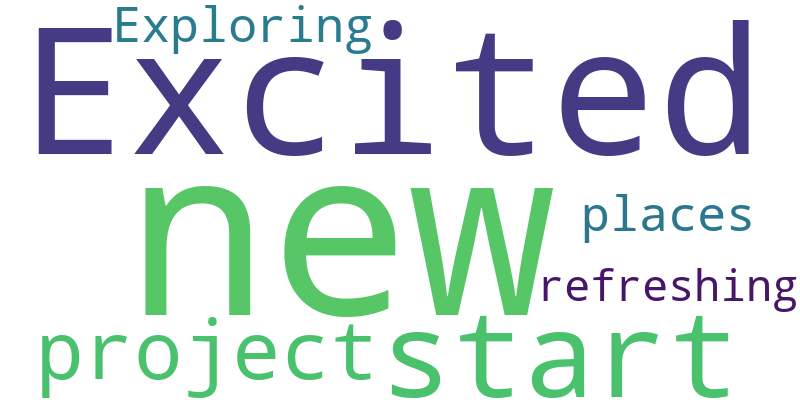
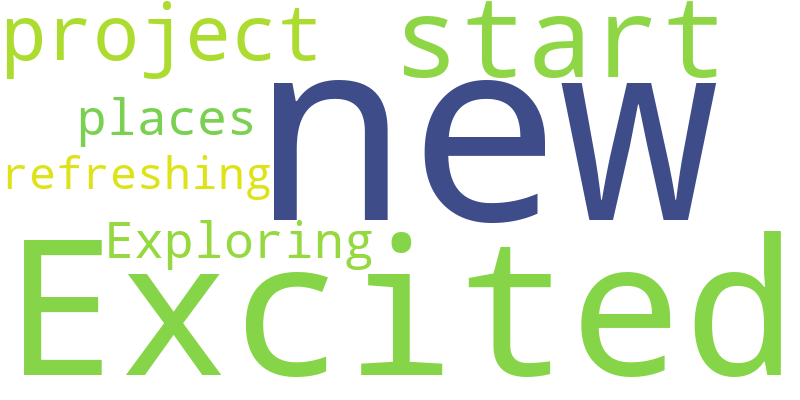
Yes

diff --git a/src/app/page.tsx b/src/app/page.tsx
@@ -1,135 +1,14 @@
-'use client'; // Marks this file as a client-side component
+import WordCloud from '../components/WordCloud';
 
-import { useState, useEffect } from 'react';
-import { prisma } from '../lib/prisma';
-
-export default function HomePage() {
-  // State to manage keywords and user attributes
-  const [includeKeywords, setIncludeKeywords] = useState('');
-  const [excludeKeywords, setExcludeKeywords] = useState('');
-  const [userAttributes, setUserAttributes] = useState({ age: '', gender: '', region: '' });
-  const [posts, setPosts] = useState([]);
-  const [loading, setLoading] = useState(false);
-
-  // Function to fetch posts based on the filters
-  const fetchFilteredPosts = async () => {
-    setLoading(true);
-
-    try {
-      const filteredPosts = await prisma.post.findMany({
-        where: {
-          content: {
-            contains: includeKeywords,
-            not: {
-              contains: excludeKeywords,
-            },
-          },
-          poster: {
-            attributes: {
-              some: {
-                AND: [
-                  userAttributes.age ? { value: userAttributes.age } : {},
-                  userAttributes.gender ? { value: userAttributes.gender } : {},
-                  userAttributes.region ? { value: userAttributes.region } : {},
-                ],
-              },
-            },
-          },
-        },
-        include: {
-          poster: true, // Include the associated user (poster) details
-        },
-      });
-
-      setPosts(filteredPosts);
-    } catch (error) {
-      console.error('Error fetching posts:', error);
-    } finally {
-      setLoading(false);
-    }
-  };
-
-  useEffect(() => {
-    fetchFilteredPosts();
-  }, [includeKeywords, excludeKeywords, userAttributes]); // Refetch when filters change
+const HomePage = () => {
+  const postsContent = "Excited to start my new project! Exploring new places is so refreshing!"; // Example posts content
 
   return (
     <div>
-      <h1>Social Media Posts</h1>
-
-      {/* Input to include keywords */}
-      <div>
-        <label>Include Keywords</label>
-        <input
-          type="text"
-          value={includeKeywords}
-          onChange={(e) => setIncludeKeywords(e.target.value)}
-          placeholder="Enter keywords to include"
-        />
-      </div>
-
-      {/* Input to exclude keywords */}
-      <div>
-        <label>Exclude Keywords</label>
-        <input
-          type="text"
-          value={excludeKeywords}
-          onChange={(e) => setExcludeKeywords(e.target.value)}
-          placeholder="Enter keywords to exclude"
-        />
-      </div>
-
-      {/* Inputs for filtering by user attributes */}
-      <div>
-        <label>Age</label>
-        <input
-          type="text"
-          value={userAttributes.age}
-          onChange={(e) => setUserAttributes({ ...userAttributes, age: e.target.value })}
-          placeholder="Enter age"
-        />
-      </div>
-
-      <div>
-        <label>Gender</label>
-        <input
-          type="text"
-          value={userAttributes.gender}
-          onChange={(e) => setUserAttributes({ ...userAttributes, gender: e.target.value })}
-          placeholder="Enter gender"
-        />
-      </div>
-
-      <div>
-        <label>Region</label>
-        <input
-          type="text"
-          value={userAttributes.region}
-          onChange={(e) => setUserAttributes({ ...userAttributes, region: e.target.value })}
-          placeholder="Enter region"
-        />
-      </div>
-
-      {/* Button to trigger the fetching of posts */}
-      <div>
-        <button onClick={fetchFilteredPosts} disabled={loading}>
-          {loading ? 'Loading...' : 'Fetch Posts'}
-        </button>
-      </div>
-
-      {/* Display posts */}
-      <div>
-        {posts.length > 0 ? (
-          posts.map((post) => (
-            <div key={post.id}>
-              <h3>{post.content}</h3>
-              <p>Posted by: {post.poster.name}</p>
-            </div>
-          ))
-        ) : (
-          <p>No posts found with the given filters.</p>
-        )}
-      </div>
+      <h1>Word Cloud Example</h1>
+      <WordCloud text={postsContent} />
     </div>
   );
-}
+};
+
+export default HomePage;

diff --git a/src/components/WordCloud.tsx b/src/components/WordCloud.tsx
@@ -1,6 +1,7 @@
 'use client';
-
+//Grabs all of the words from every post in the database and calls the python class to make the word cloud
 import { useEffect, useState } from 'react';
+import Image from 'next/image';
 
 const WordCloud = ({ text }: { text: string }) => {
   const [wordCloudUrl, setWordCloudUrl] = useState<string | null>(null);
@@ -33,7 +34,9 @@ const WordCloud = ({ text }: { text: string }) => {
   return (
     <div>
       {wordCloudUrl ? (
-        <img src={wordCloudUrl} alt="Word Cloud" style={{ width: '100%', height: 'auto' }} />
+        <>
+          <Image src={wordCloudUrl} alt="Word Cloud" layout="responsive" width={500} height={500} />
+        </>
       ) : (
         <p>Loading word cloud...</p>
       )}

diff --git a/src/app/api/wordcloud/route.ts b/src/app/api/wordcloud/route.ts
@@ -6,7 +6,7 @@ export async function POST(request: Request) {
   try {
     // Get the text content from the request body
     const { text } = await request.json();
-    
+
     // Escape the text to avoid issues with special characters
     const safeText = text.replace(/"/g, '\\"');
 
@@ -16,7 +16,7 @@ export async function POST(request: Request) {
       safeText
     ], {
       detached: true,  // Ensures the process runs independently
-      stdio: 'ignore'  // Avoids output to the console, preventing IDE from opening tabs
+      stdio: 'ignore'  // Avoids output to the console
     });
 
     pythonProcess.unref();  // Detach from the parent process to run independently

diff --git a/src/components/WordCloud.py b/src/components/WordCloud.py
@@ -1,15 +1,22 @@
+import matplotlib
+matplotlib.use('Agg')  # Use the 'Agg' backend to prevent GUI windows
 from wordcloud import WordCloud
 import matplotlib.pyplot as plt
 import sys
+import time  # Import time to generate a dynamic random seed
 
 # Get the text passed from Node.js (via command line)
 text = sys.argv[1]
 
-# Generate the word cloud
-wordcloud = WordCloud(width=800, height=400, background_color="white").generate(text)
+# Generate the word cloud with a unique random state
+wordcloud = WordCloud(
+    width=800,
+    height=400,
+    background_color="white",
+    random_state=int(time.time())  # Use current time as random state
+).generate(text)
 
 # Save the word cloud image to a file instead of showing it
 wordcloud.to_file('public/wordcloud.png')
 
-# Optional: Close any plots to avoid extra windows opening
-plt.close()
+# No need to call plt.close() as 'Agg' doesn't use interactive plotting
